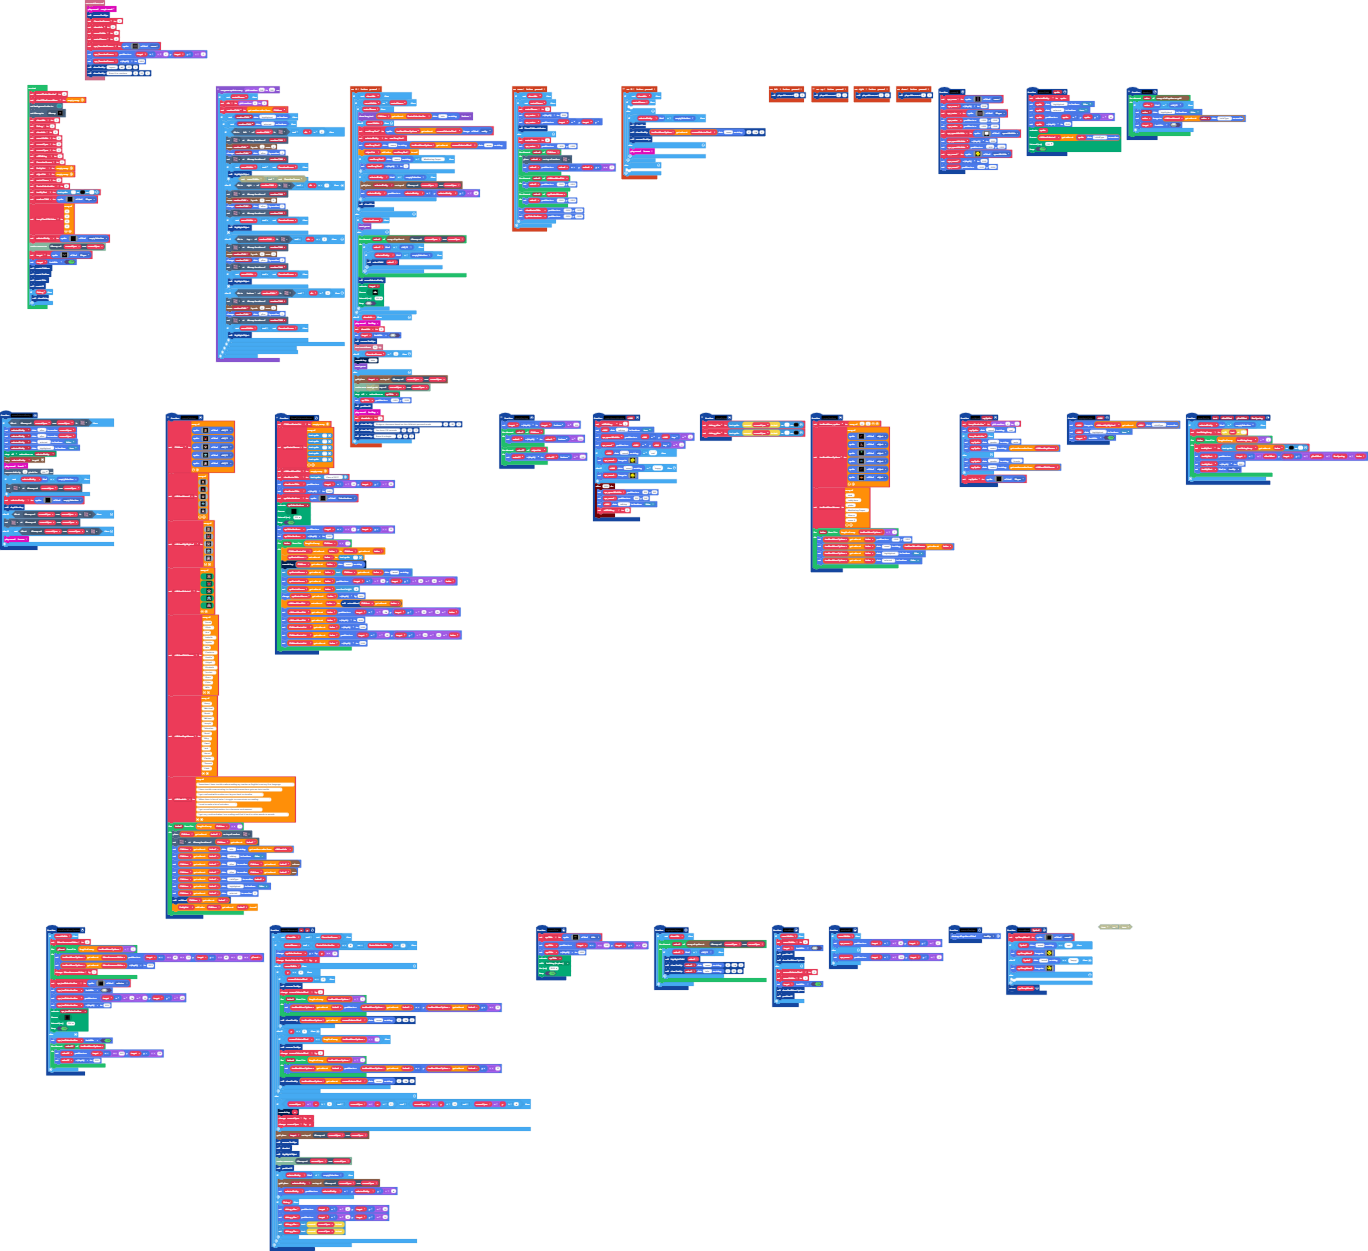
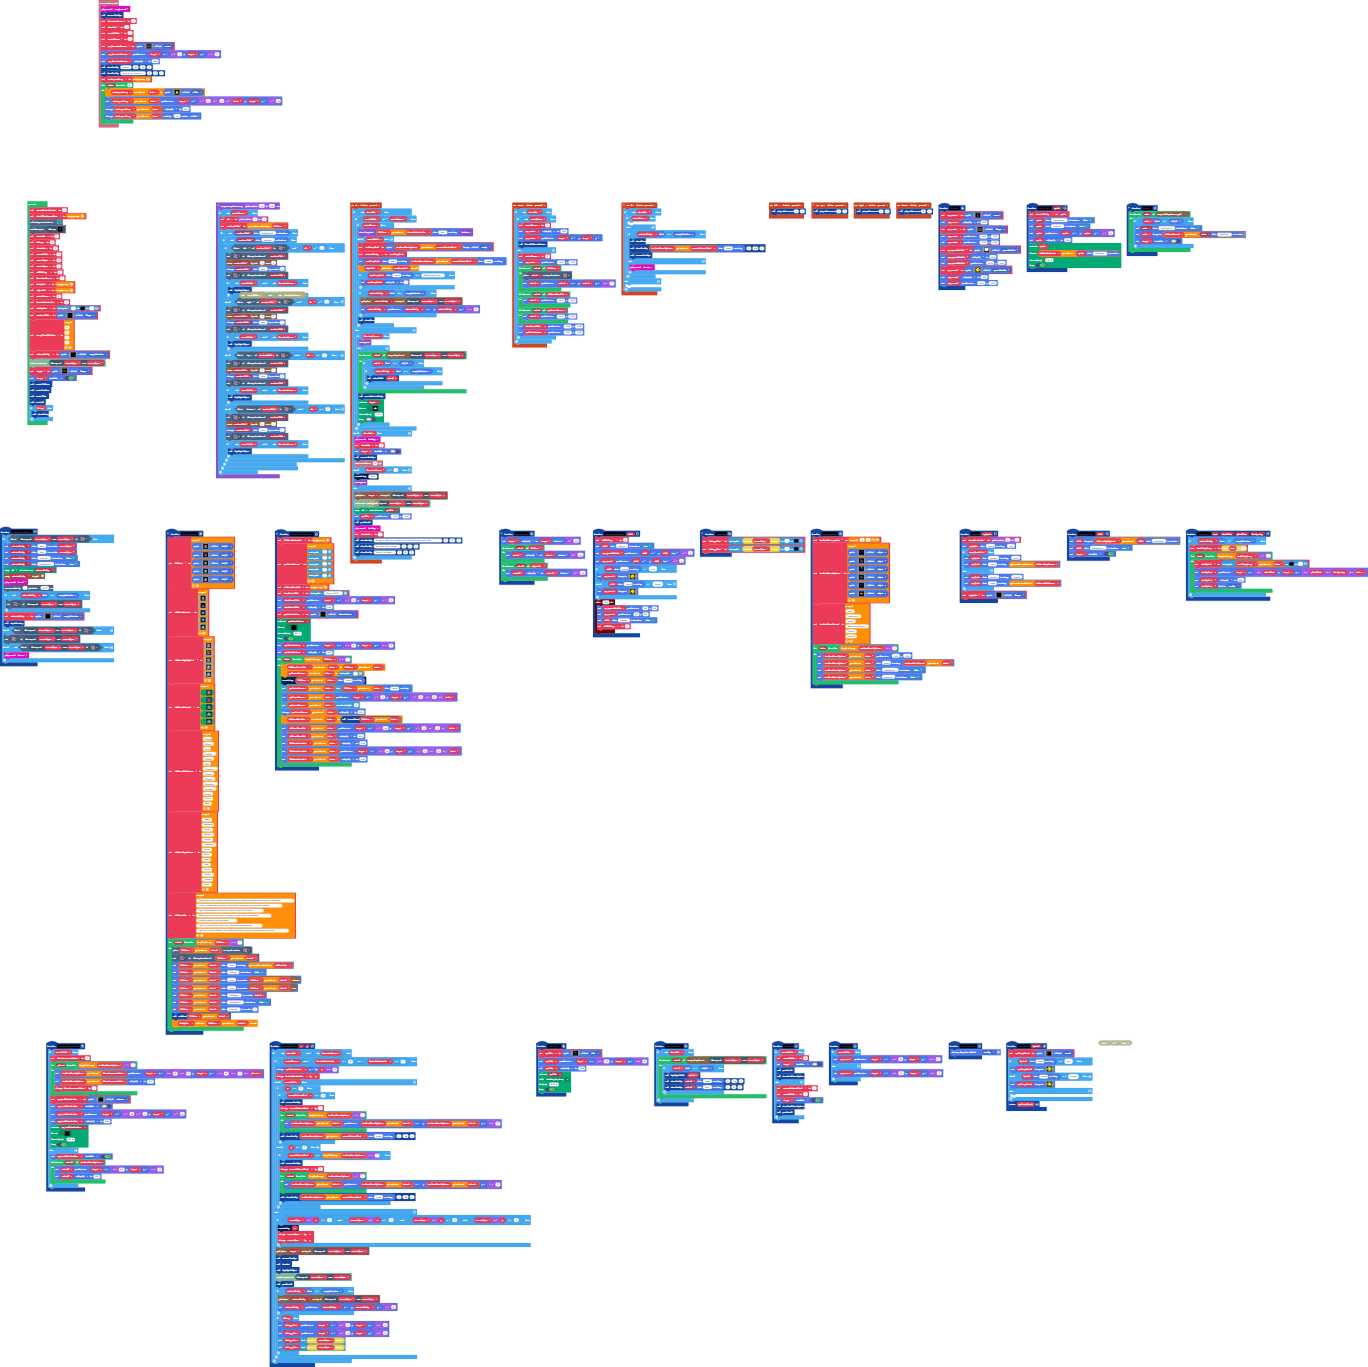
adding stars

Changed region(s): [[0.0, 0.0, 1.0, 0.9976]]

diff --git a/main.ts b/main.ts
@@ -16,6 +16,7 @@ namespace SpriteKind {
     export const emptySelection = SpriteKind.create()
     export const tooltip = SpriteKind.create()
     export const object = SpriteKind.create()
+    export const uiStar = SpriteKind.create()
 }
 // movement
 controller.up.onEvent(ControllerButtonEvent.Pressed, function () {
@@ -272,8 +273,15 @@ info.onCountdownEnd(function () {
     spr_OverviewScreen = sprites.create(assets.image`myImage10`, SpriteKind.menu)
     spr_OverviewScreen.setPosition(target.x - 0, target.y - 0)
     spr_OverviewScreen.z = 3000
-    showTooltip("Layout", -40, -38, 1)
+    showTooltip("Layout", -40, -34, 1)
     showTooltip("Press A to continue", 0, 50, 1)
+    starLayoutArray = []
+    for (let index = 0; index <= 4; index++) {
+        starLayoutArray[index] = sprites.create(assets.image`myImage11`, SpriteKind.uiStar)
+        starLayoutArray[index].setPosition(target.x - 10 + 15 * index, target.y - 34)
+        starLayoutArray[index].z += 3001
+        starLayoutArray[index].changeScale(-0.2, ScaleAnchor.Middle)
+    }
 })
 // Depth sorting
 function depthSorting () {
@@ -625,6 +633,7 @@ let debug_xPos: TextSprite = null
 let textStringArray: string[] = []
 let toolboxMenuNames: string[] = []
 let toolboxMenu_sprites: number[] = []
+let starLayoutArray: Sprite[] = []
 let spr_OverviewScreen: Sprite = null
 let mySprite: Sprite = null
 let childrenGirlsNames: string[] = []
